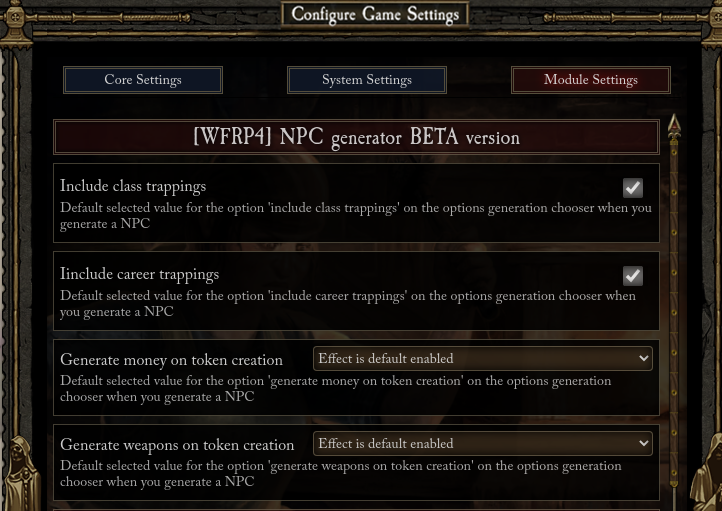
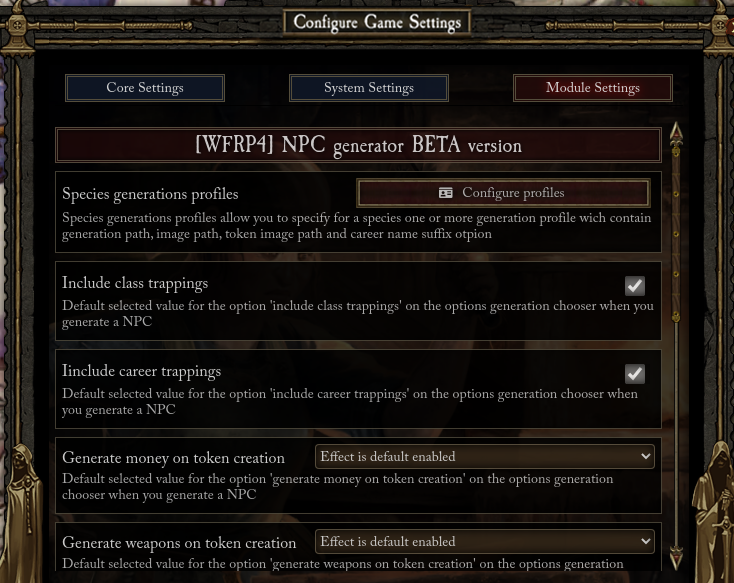
chore: documntation

diff --git a/README.md b/README.md
@@ -57,6 +57,13 @@ you have to install the translate module of wfrp4e-core and have the system lang
   - Don't include effect : NPC don't include the passive effect used to generate money/weapons on token creation
   - Effect is default disabled : NPC include the passive effect used to generate money/weapons on token creation, the effect is disabled
   - Effect is default enabled : NPC include the passive effect used to generate money/weapons on token creation, the effect is active
+- Generate career name sub-folder : Check if you want to add to generation path the career group name as a sub-folder
+- Link token with actor : Check if you want the generated NPC linked to his token (Passive generation effects are ignored in this case)
+- Generate with money/weapon : Check if you want to include random money/weapons to the generated NPC (Passive generation effects are ignored in this case)
+- Profile : Choose a species profile to pre-fill the following options :
+  - Folder : The generation folders with '/' separator (ex : 'Generated NPC/Common'). All folders after the third are ignored
+  - Image : The path for the generated NPC image
+  - Token : The path for the generated NPC token image (random is set to true if a wilcard is present)
 
 ### From Macro
 
@@ -133,6 +140,16 @@ game.wfrp4e.npcGen.nameChooser.selectName(
 
 - Settings allow you to define the default selected option of options chooser, the last step of NPC generation
 
+### Create species profiles
+
+![Profiles](./media/wfrp4e-npc-gen-profiles.png)
+
+- You can create profiles for each species to define :
+  - Generation path : The generation folders with '/' separator (ex : 'Generated NPC/Common')
+  - Image path : The path for the generated NPC image
+  - Token path : The path for the generated NPC token image
+- Profiles can be selected during the option chooser to pre-fill those fields
+
 ## Generation rules
 
 - Actor is created with npc template (creature template comming soon)
@@ -187,18 +204,11 @@ Weapons are added to token data during creation with this rules :
 
 ## Comming soon
 
-- Create a function to Prompt option to generate trappings or not
-- Generate actor with trapping
-- Create a function to Prompt a generation mode (simple or advanced)
-  - Simple generator Prompt only Species, Career and Name select and une random for species and talent skill
 - Add Gnome if rnhd module is present
-- Creates Settings (defaut trapping option on simple mode, manage token images path):
-  - A boolean askForTrapping to enable/disable Prompt option to ask if you want to generate trapping
-  - A boolean withTrapping to generate trapping on simpliest mode or if askForTrapping=false
-  - A String defaultGenDirectory to specify a path where generate new NPC
-  - A Object { [type: string]: {genDirectory: string, tokenIconPath: string}} to allow user create type of npc generation with specific path and icon
-- Create a function to Prompt select an npc type (used with settings to set a spcific generation path and a token icon path)
 - Create a simpliest generator with creature template
+- Allow to select many careers to create a career path instead of de automatic career path
+- create a chat command
+- Manage other language
 
 ## Module link
 

diff --git a/CHANGELOG.md b/CHANGELOG.md
@@ -1,18 +1,10 @@
 ## In development
 
-- Create a function to Prompt a generation mode (simple or advanced)
-  - Simple generator Prompt only Species, Career and Name select and une random for species and talent skill
 - Add Gnome if rnhd module is present
-- Update Settings (defaut trapping option on simple mode, manage token images path):
-  - A String defaultGenDirectory to specify a path where generate new NPC
-  - A Object { [type: string]: {genDirectory: string, tokenIconPath: string}} to allow user create type of npc generation with specific path and icon
-- Create a function to Prompt select an npc type (used with settings to set a spcific generation path and a token icon path)
 - Create a simpliest generator with creature template
 - Allow to select many careers to create a career path instead of de automatic career path
 - create a chat command
 - Manage other language
-- Allow linked pnj
-- Allow money and weapons generation at creation
 
 ## 1.3.0
 
